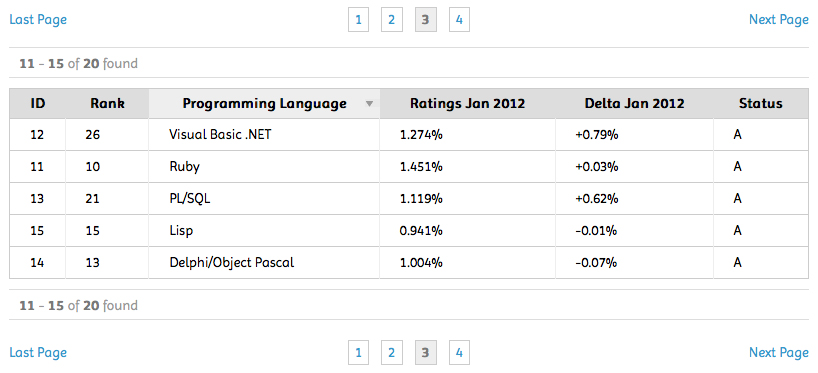
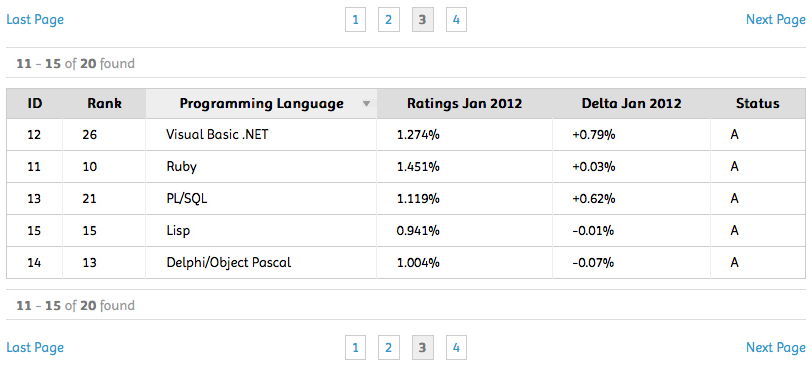
Added preview image to documentation
Updated preview image

diff --git a/README.html b/README.html
@@ -11,6 +11,8 @@
 
 <p>A easy way to generate next and last page buttons, breadcrumb links, and per-page result totals, as HTML.</p>
 
+<img class="preview" src="preview.jpg">
+
 <h2>Features</h2>
 
 <ul>
